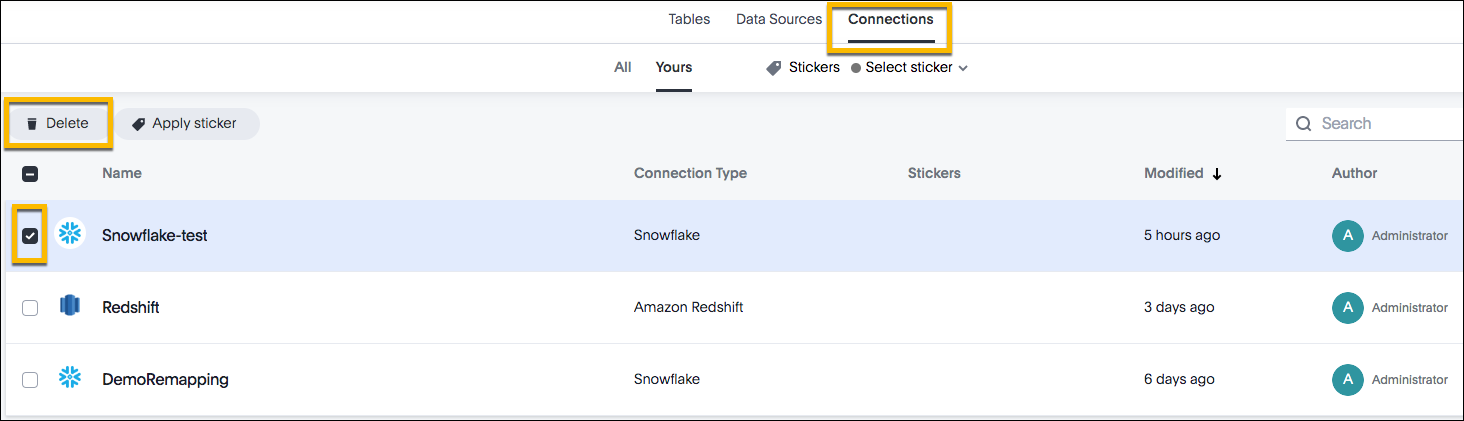
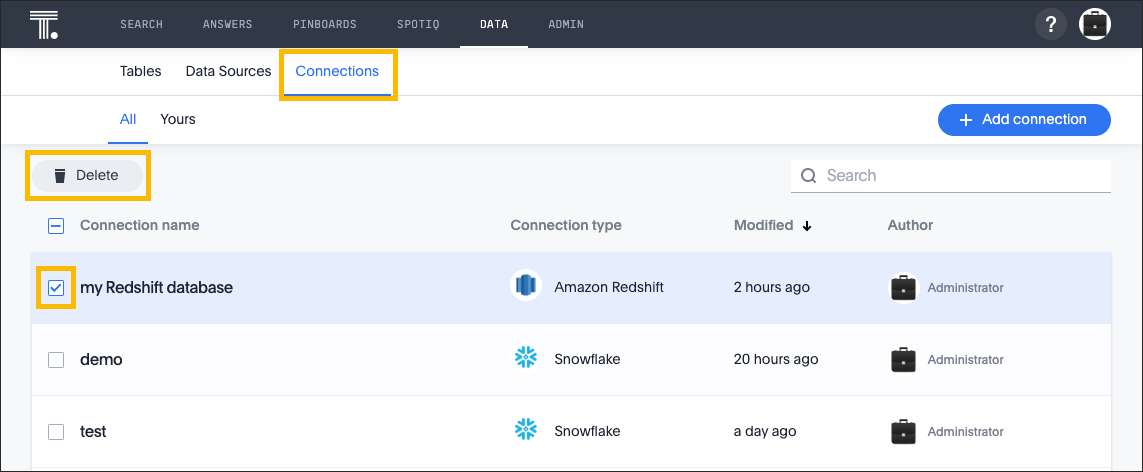
updated screenshots and copy on modify a connection page

diff --git a/_data-integrate/embrace/getting-started/modify-a-connection.md b/_data-integrate/embrace/getting-started/modify-a-connection.md
@@ -79,7 +79,7 @@ To delete a table:
 
    ![]({{ site.baseurl }}/images/select-connection.png "Select a connection type")
 
-4. Find the table you want to remove in the list, and check the box next to its name.
+4. Find the table you want to delete in the list, and check the box next to its name.
 
 5. Click **Delete**.
 
